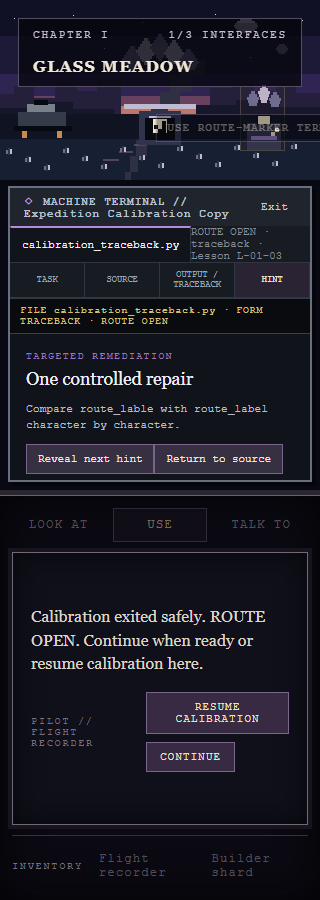
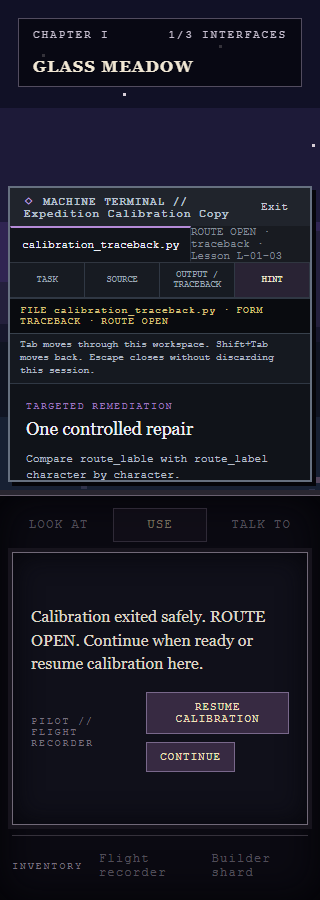
Round 5 step 5 Exercise Agent checkpoint

diff --git a/horizon-archive-game/src/styles.css b/horizon-archive-game/src/styles.css
@@ -282,11 +282,12 @@ h1 {
 .route-retrieval-list select { width: 100%; min-width: 0; margin-top: 7px; padding: 7px; color: #dce2ea; background: #171b22; border: 1px solid #4a5360; font-size: 0.66rem; }
 .route-retrieval-list p { margin: 7px 0 0; color: #d1bd87; font-size: 0.62rem; }
 .terminal-workbench[data-terminal-exercise="EX-L0103-CALIBRATION-DEBUG"] { border: 2px solid #667080; box-shadow: 6px 6px 0 #05060a; }
-.calibration-workspace { display: grid; grid-template-rows: auto auto minmax(0, 1fr); min-height: 0; background: #101319; font-family: "Courier New", monospace; }
+.calibration-workspace { display: grid; grid-template-rows: auto auto auto minmax(0, 1fr); min-height: 0; background: #101319; font-family: "Courier New", monospace; }
 .calibration-pane-tabs { display: grid; grid-template-columns: repeat(4, 1fr); border-bottom: 2px solid #303844; }
 .calibration-pane-tabs button { padding: 7px 4px; color: #9da7b4; background: #171b22; border: 0; border-right: 1px solid #303844; text-transform: uppercase; font-size: 0.62rem; cursor: pointer; }
 .calibration-pane-tabs button[aria-current="page"], .calibration-pane-tabs button:hover { color: #f0e7cf; background: #292334; }
 .calibration-route-status { margin: 0; padding: 6px 10px; color: #d7c079; background: #090b0f; border-bottom: 1px solid #38414c; font-size: 0.62rem; letter-spacing: 0.08em; }
+.calibration-keyboard-help { margin: 0; padding: 5px 10px; color: #aeb7c2; background: #151920; border-bottom: 1px solid #303844; font-size: 0.6rem; line-height: 1.35; }
 .calibration-pane { min-height: 0; padding: 16px; overflow: auto; }
 .calibration-pane h2 { margin: 5px 0 10px; color: #edf0f4; font: 1.1rem/1.15 Georgia, "Times New Roman", serif; }
 .calibration-pane p { color: #b5bec9; font-size: 0.7rem; line-height: 1.45; }

diff --git a/horizon-archive-game/test/calibrationExercise.test.js b/horizon-archive-game/test/calibrationExercise.test.js
@@ -1,6 +1,13 @@
 import test from "node:test";
 import assert from "node:assert/strict";
-import { calibrationStarters, evaluateCalibrationDiagnosis, evaluateCalibrationRetrieval, evaluateCalibrationSource, sanitizeCalibrationMastery, updateCalibrationMastery } from "../src/calibrationExercise.js";
+import { calibrationExercise, calibrationStarters, evaluateCalibrationDiagnosis, evaluateCalibrationRetrieval, evaluateCalibrationSource, sanitizeCalibrationMastery, updateCalibrationMastery } from "../src/calibrationExercise.js";
+
+test("keyboard orientation is exact, visible-only guidance and explicitly ungraded", () => {
+  assert.equal(calibrationExercise.ungraded_keyboard_orientation.copy, "Tab moves through this workspace. Shift+Tab moves back. Escape closes without discarding this session.");
+  assert.equal(calibrationExercise.ungraded_keyboard_orientation.visible_exit_required, true);
+  assert.equal(calibrationExercise.ungraded_keyboard_orientation.included_in_mastery_evidence, false);
+  assert.deepEqual(calibrationExercise.mastery.explicitly_ungraded, ["Tab", "Shift+Tab", "Escape", "focus", "modal", "inert"]);
+});
 
 test("diagnoses must identify type line and token before repair", () => {
   assert.deepEqual(evaluateCalibrationDiagnosis({ errorType: "NameError", lineNumber: "2", namedToken: "route_lable" }, "traceback"), { errorType: true, lineNumber: true, namedToken: true });

diff --git a/horizon-archive-game/src/App.jsx b/horizon-archive-game/src/App.jsx
@@ -1076,6 +1076,7 @@ export function App() {
                 ))}
               </nav>
               <p className="calibration-route-status">FILE {calibrationExercise.forms[calibrationSession.form].starter_file} · FORM {calibrationSession.form.toUpperCase()} · ROUTE OPEN</p>
+              <p className="calibration-keyboard-help" data-ungraded-orientation="true">{calibrationExercise.ungraded_keyboard_orientation.copy}</p>
 
               {calibrationSession.pane === "task" && (
                 <form className="calibration-pane" onSubmit={submitCalibrationDiagnosis}>

diff --git a/Exercise Development/WORK_LOG.md b/Exercise Development/WORK_LOG.md
@@ -1,5 +1,14 @@
 # Exercise Agent Work Log
 
+## 2026-07-12 — Ungraded Calibration keyboard orientation
+
+- **Outcome:** `EX-L0103-CALIBRATION-DEBUG` now renders the exact Teacher-authored line: “Tab moves through this workspace. Shift+Tab moves back. Escape closes without discarding this session.” The help remains visible on every Calibration pane beside persistent file/form/`ROUTE OPEN` status, while the shared TerminalShell retains the visible Exit Calibration control.
+- **Mastery boundary:** Keyboard concepts remain orientation only. The existing two diagnoses, two 8/8 code forms, and four debugging retrieval items are unchanged; no Tab, Shift+Tab, Escape, focus, modal, or inert item enters grading or persistent mastery evidence.
+- **Files changed:** `horizon-archive-game/src/App.jsx`, `horizon-archive-game/src/styles.css`, `horizon-archive-game/test/calibrationExercise.test.js`, and `playtest/e2e-playthrough.mjs`.
+- **Validation:** 31/31 unit tests and the production build pass. The L-01-03 curriculum validator self-test passes. Full title-to-credits E2E passes with exact-copy visibility, visible Exit, Exit/reopen and Escape/reopen source preservation, four-item-only graded retrieval, focus containment, privacy, and zero runtime errors.
+- **Handoff:** Pixel Patrol should preserve this single-line help in its 640×480 density pass and measure whether it belongs directly below the route-status strip or in an equally persistent one-line footer without truncation.
+- **Risks:** At the narrowest supported viewport the exact sentence wraps, but remains fully visible and unchanged; production bitmap font metrics may require a two-line reserved band.
+
 ## 2026-07-12 — Coder pass: reusable Terminal focus contract
 
 - **Outcome:** All five exercise workspaces now inherit modal dialog semantics, title-first focus, inert background controls, contained Tab/Shift+Tab navigation, Escape-to-close, and exact trigger focus restoration from the shared `TerminalShell`. Escape preserves each existing in-memory exercise session.
